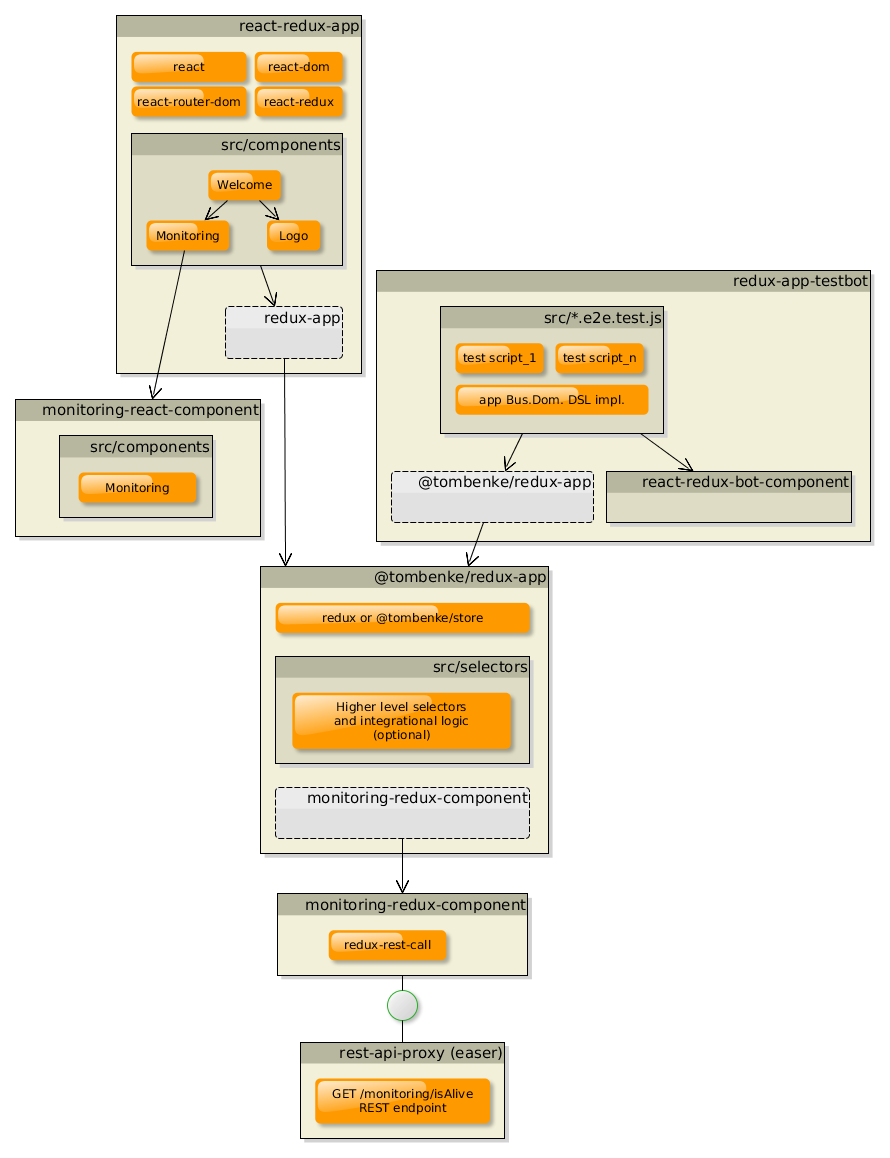
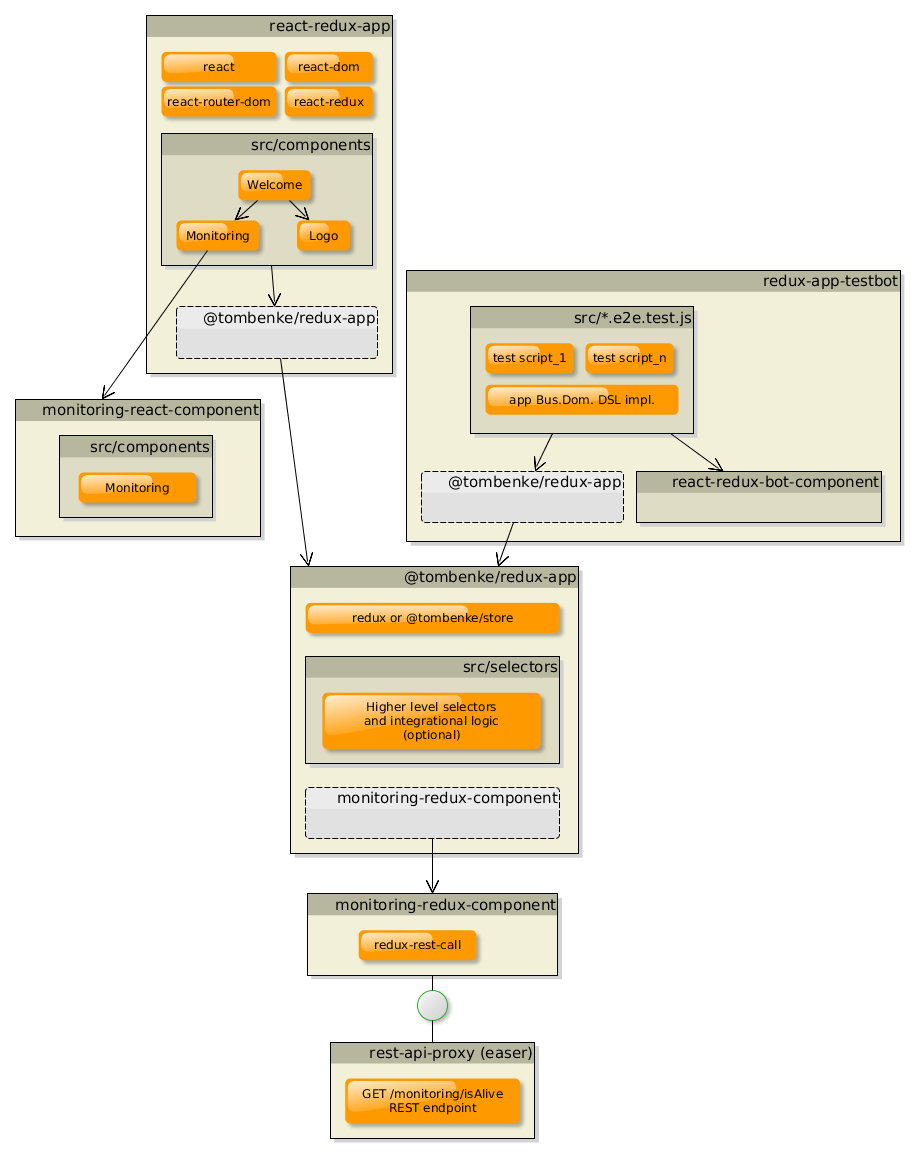
Add docs about architecture

Changed region(s): [[0.0607, 0.0, 0.9708, 0.9948], [0.8191, 0.2176, 0.9708, 0.2487]]

diff --git a/docs/index.md b/docs/index.md
@@ -1,5 +1,88 @@
-See components of the app in the [storybook](storybook/index.html).
+## About
+
+This is a very simple react application, that implements only a few basic features.
+Its main purpose is to demonstrate the separation and organization of the several architectural components
+the whole application is made of.
+
+This repository also can be used as a [kickoff](https://www.npmjs.com/package/kickoff) archetype to create similar applications.
+It is true to the other system components that are used by this app as dependencies.
+
+## Architecture
 
 This is the architecture of the overall application:
 
 ![architecture](architecture.png)
+
+
+### `react-redux-app`
+
+This is the main project, that integrates the whole frontend application into a bundle.
+
+This component includes the frontend business logic, and the reusable presentational component
+as dependencies, and contains only those presentational components, that are specific to this application,
+under the `src/components` folder.
+
+See these components in the [storybook](storybook/index.html).
+
+Note: This project should not contain the store, and other infrastructural code that implements business logic, or services calls.
+These kind of functionalities should be packaged into a ui-state module, and used as a dependency.
+See [@tombenke/redux-app](https://github.com/tombenke/redux-app) as an example.
+
+### `monitoring-react-component`
+
+The [monitoring-react-component](https://github.com/tombenke/monitoring-react-component) is a separate project,
+that holds some reusable presentational components of the server monitoring feature.
+
+Presentational components should not contain any business logic code,
+except that is tightly connected to the internal presentational logic and state of the react components.
+
+### `@tombenke/redux-app`
+
+The [@tombenke/redux-app](https://github.com/tombenke/redux-app)
+
+A redux based application, that holds all the actions,
+reducers and selectors that is needed to the frontend business logic of the application.
+
+This project may holds all the business logic components, however it my include some external dependencies too.
+Such a reusable redux component is the [monitoring-redux-component](https://github.com/tombenke/monitoring-redux-component).
+
+Beside the redux components this project also contains the store,
+and can be built into a headless application that can run on its own, without the presentational components.
+The [redux-app-testbot](https://github.com/tombenke/redux-app-testbot) is an example for such a headless frontend application.
+
+### `monitoring-redux-component`
+
+The [monitoring-redux-component](https://github.com/tombenke/monitoring-redux-component)
+is the redux state component of monitoring features for UI components.
+
+This component holds all the actions, reducers and selectors that is needed 
+to the frontend business logic of the monitoring features, including the service calls.
+
+The module does not contain the store, only a mock-store for testing purposes.
+
+### `redux-app-testbot`
+
+The [redux-app-testbot](https://github.com/tombenke/redux-app-testbot)
+is a template project for react frontend test bots.
+
+It is a headless frontend application, in the meaning that it contains no presentational components,
+however is uses a special `BotComponent`, that extends the `React.Component` class,
+and can be bound to the actions and selectors of the [@tombenke/redux-app](https://github.com/tombenke/redux-app)
+component via `connect` function of `react-redux`.
+
+The main purpose of this module to provide a high-level API of the frontend business logic,
+that can be used to write fullstack end-to-end tests.
+
+These test cases use the very same functions that the end-users can use through the react presentational components,
+so this way it is possible to efficiently automate regressional integration tests including the frontend code too.
+The difference is that such tests can be executed in CI environments, similarly like the normal unit tests run,
+and no need for using time and resource intensive technologies such as Selenium.
+
+Obviously these tests will not involve the react components, that anyway will be tested withing their own test suite.
+
+### `easer`
+
+The [easer](https://github.com/tombenke/easer) is a simple,
+generic express server with built-in authentication and authorization.
+It provides the `GET /monitoring/isAlive` (and some similar REST endpoints) by default that is needed to run the end-to-end tests.
+
